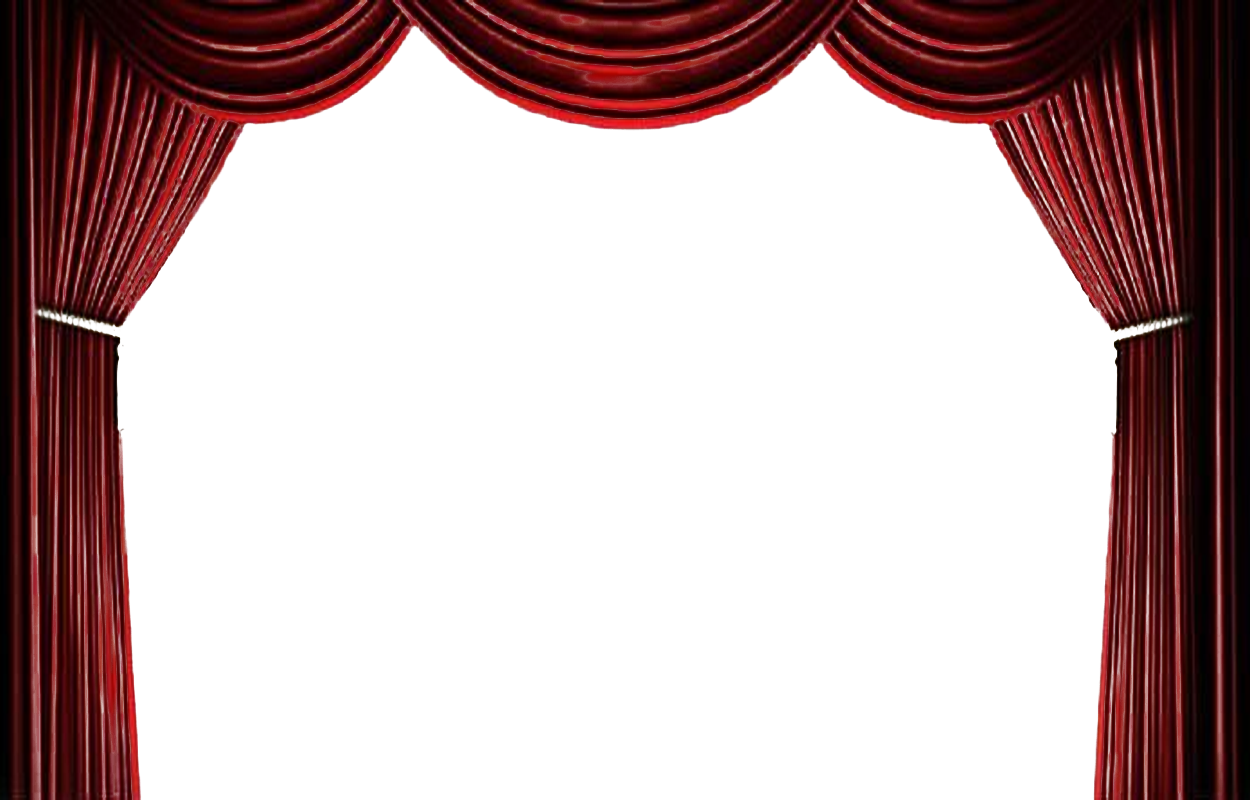
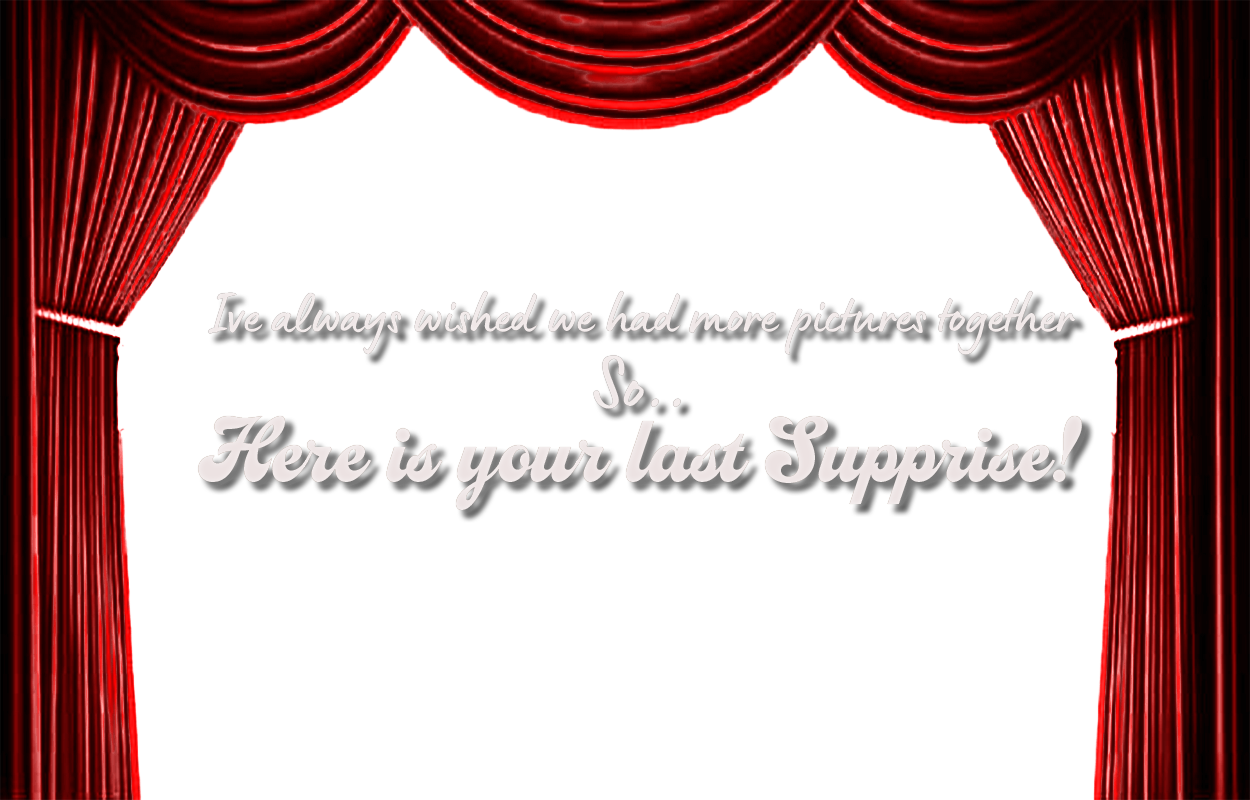
yay

Changed region(s): [[0.0, 0.0, 0.9984, 1.0]]

diff --git a/main.css b/main.css
@@ -677,7 +677,7 @@ body {
     position: absolute;
     width: 100%;
     height: 100%;
-    background-image: url('images/pages/page3.png');
+    background-image: url('images/pages/page4.png');
     z-index: 2;
 }
 
@@ -686,7 +686,7 @@ body {
     position: absolute;
     width: 100%;
     height: 100%;
-    background-image: url('images/pages/page3.png');
+    background-image: url('images/pages/page5.png');
     z-index: 2;
 }
 
@@ -695,7 +695,16 @@ body {
     position: absolute;
     width: 100%;
     height: 100%;
-    background-image: url('images/pages/page3.png');
+    background-image: url('images/pages/page6.png');
+    z-index: 2;
+}
+
+/* page6 */
+.page7bg {
+    position: absolute;
+    width: 100%;
+    height: 100%;
+    background-image: url('images/pages/page7.png');
     z-index: 2;
 }
 
@@ -712,9 +721,21 @@ body {
   top: 0;
   width: 50%;
   height: 100%;
-  background-image: url('images/assets/curt.png');
+  background-size: cover;
+  background-position: center;
   z-index: 2;
-  transition: all 1s ease;
+  transition: transform 1s ease;
+}
+
+.curt {
+  position: absolute;
+  top: 0;
+  width: 100%;
+  height: 100%;
+  background-image: url('images/assets/curt.png');
+  z-index: 3;
+  opacity: 1;
+  transition: opacity 2s ease;
 }
 
 .curtain.left {
@@ -723,39 +744,118 @@ body {
 }
 
 .curtain.right {
-  right: 0;
-  background-image: url('images/assets/right.png');
+  left: 50%;
+  background-image: url('images/assets/left.png');
+  transform: scaleX(-1);
 }
 
 .curtain.open.left {
-  transform: translateX(-90%);
+  transform: translateX(-100%);
 }
 
 .curtain.open.right {
-  transform: translateX(90%);
+  transform: translateX(100%) scaleX(-1);
 }
-
 
 .pg6content {
   position: absolute;
-  width: 100%;
-  height: 100%;
+  inset: 0; /* fill the container */
   display: flex;
   flex-direction: column;
   align-items: center;
   justify-content: center;
   z-index: 1;
   opacity: 0;
-  transition: opacity 1s ease 1s; /* appear after curtains open */
+  transition: opacity 1s ease 1s; /* delay fade until curtains open */
 }
 
 .pg6content.show {
   opacity: 1;
 }
 
+#openCurtain {
+  position: absolute;
+  bottom: 25%;
+  left: 50%;
+  transform: translateX(-50%);
+  z-index: 4; /* stays above curtains */
+  
+  background: linear-gradient(135deg, #28a745, #20c420);
+  color: white;
+  font-size: 20px;
+  font-weight: 600;
+  padding: 12px 28px;
+  
+  border: none;
+  border-radius: 12px;
+  box-shadow: 0 6px 15px rgba(0, 0, 0, 0.2);
+  
+  cursor: pointer;
+  transition: all 0.3s ease;
+}
 
-button {
-  margin-top: 20px;
-  padding: 10px 20px;
-  font-size: 16px;
+#openCurtain:hover {
+  background: linear-gradient(135deg, #20c420, #1aa01a);
+  transform: translateX(-50%) scale(1.05);
+  box-shadow: 0 8px 20px rgba(0, 0, 0, 0.25);
+}
+
+#openCurtain:active {
+  transform: translateX(-50%) scale(0.95);
+  box-shadow: 0 4px 10px rgba(0, 0, 0, 0.2);
+}
+
+.supprise {
+    position: absolute;
+    top: 6%;
+    width: 100%;
+    height: 100%;
+    background-image: url('images/pages/Supprise.png');
+    background-repeat: no-repeat;
+}
+
+.pibble {
+    position: absolute;
+    right: 6%;
+    top: 64.5%;
+    width: 16%;
+    height: 32%;
+    background-image: url('images/assets/pibble.png');
+    background-repeat: no-repeat;
+    cursor: pointer;
+    pointer-events: auto;
+    z-index: 10000;
+
+    animation: jumping 1.2s steps(1) infinite;
+}
+
+.page4 .star {
+  top: 32%;
+  left: -11%;
+  rotate: 30deg;
+  scale: 0.4;
+
+}
+.page5 .star {
+  top: 32%;
+  left: -11%;
+  rotate: 30deg;
+  scale: 0.4;
+
+}
+
+.page5 .heart2 {
+  top: 70%;
+  left: 68%;
+  rotate: 30deg;
+  scale: 0.4;
+
+}
+
+.page6 .star {
+  top: 68%;
+  left: -5%;
+  rotate: 30deg;
+  scale: 0.6;
+
 }

diff --git a/main.html b/main.html
@@ -69,26 +69,44 @@
         <div class="page page4">
             <div class="page4bg"></div>
             <div class="flakes"></div>
+            <div class="heart"></div>
+            <div class="star"></div>
         </div>
 
         <!-- Page 5-->
         <div class="page page5">
             <div class="page5bg"></div>
             <div class="flakes"></div>
+            <div class="heart"></div>
+            <div class="star"></div> 
+            <div class="heart2"></div>
 
         </div>
 
-        <!-- Page 6-->
+                <!-- Page 6-->
         <div class="page page6">
             <div class="page6bg"></div>
             <div class="flakes"></div>
+            <div class="heart"></div>
+            <div class="star"></div>
+
+        </div>
+
+        <!-- Page 7-->
+        <div class="page page7">
+            <div class="page7g"></div>
             <div class="curtain-container">
+            <div class="curt"></div>
                 <div class="curtain left"></div>
                 <div class="curtain right"></div>
-                <div class="pg6content">
 
+                <div class="pg6content">
+                    <div class="supprise"></div>
+                    <div class="pibble"></div>
+                </div>
+
+                <button id="openCurtain">Open Curtains</button>
             </div>
-            <button id="openCurtain">Open Curtains</button>
         </div>
 
 

diff --git a/main.js b/main.js
@@ -167,10 +167,16 @@ document.addEventListener("DOMContentLoaded", () => {
 const button = document.getElementById('openCurtain');
 const leftCurtain = document.querySelector('.curtain.left');
 const rightCurtain = document.querySelector('.curtain.right');
-const content = document.querySelector('.content');
+const pg6content = document.querySelector('.pg6content');
+const curt = document.querySelector('.curt');
 
 button.addEventListener('click', () => {
+  // Open only once
   leftCurtain.classList.add('open');
   rightCurtain.classList.add('open');
-  content.classList.add('show');
+  pg6content.classList.add('show');
+  curt.style.opacity = 0;
+
+  // Make the button disappear
+  button.style.display = "none";
 });
